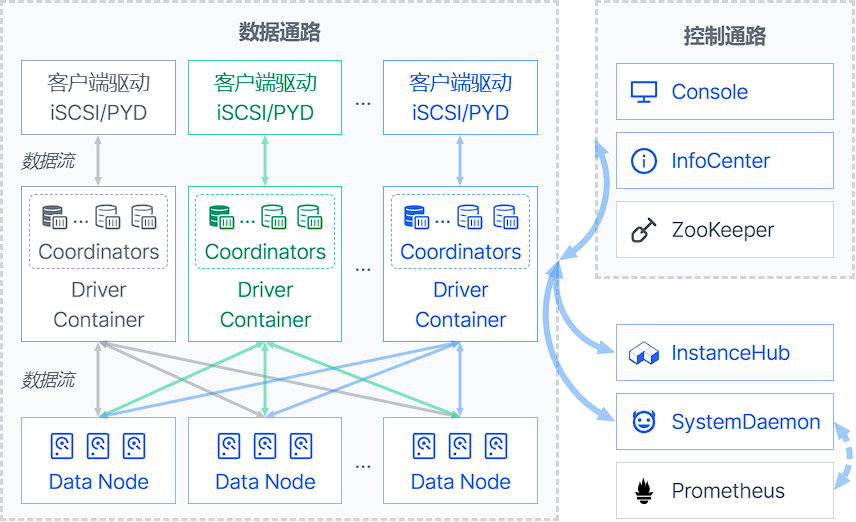
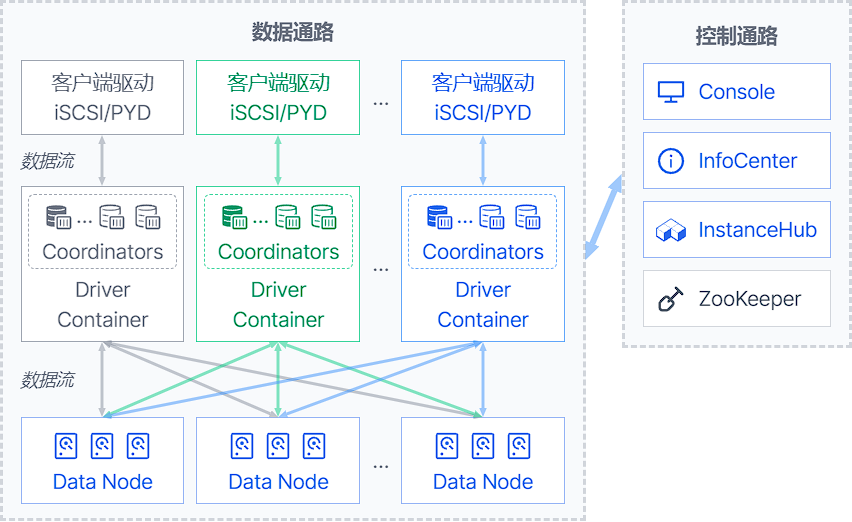
removed SystemDaemon

diff --git a/README.md b/README.md
@@ -79,14 +79,55 @@ The following table compares some key features between various versions of Zetta
 
 # Quick Start
 
-If you're on Linux, the packages required for compilation can be installed by the folowing commands
 
-## I. Setup a development environment
+## I. Downloading the Source
+The repositories of ZettaStor DBS must be organized in a hierarchy structure, use the following commands to download the source code:
+```bash
+ROOT_PATH=$1
+
+git clone -b 1.0.0 $ROOT_PATH:main/pengyun-root
+pushd pengyun-root
+
+git clone -b 1.0.0 $ROOT_PATH:main/pengyun-lib
+pushd pengyun-lib
+git clone -b feature/open_source $ROOT_PATH:main/pengyun-core
+git clone -b feature/open_source $ROOT_PATH:database/pengyun-database_core
+git clone -b feature/open_source $ROOT_PATH:main/pengyun-models
+git clone -b feature/open_source $ROOT_PATH:main/pengyun-dih_model
+git clone -b feature/open_source $ROOT_PATH:main/pengyun-dih_client
+git clone -b feature/open_source $ROOT_PATH:monitor/pengyun-query_log
+git clone -b feature/open_source $ROOT_PATH:main/pengyun-configuration
+git clone -b feature/open_source $ROOT_PATH:monitor/pengyun-monitor_common
+popd
+
+git clone -b 1.0.x-OS $ROOT_PATH:main/pengyun-dbs
+pushd pengyun-dbs
+git clone -b feature/open_source $ROOT_PATH:dbs/dbs-dnmodel
+git clone -b feature/open_source $ROOT_PATH:dbs/dbs-models_related
+git clone -b feature/open_source $ROOT_PATH:main/pengyun-driver_core
+git clone -b feature/open_source $ROOT_PATH:main/pengyun-coordinator
+git clone -b feature/open_source $ROOT_PATH:main/pengyun-infocenter
+git clone -b feature/open_source $ROOT_PATH:main/pengyun-drivercontainer
+git clone -b feature/open_source $ROOT_PATH:main/pengyun-deployment_daemon
+git clone -b feature/open_source $ROOT_PATH:main/pengyun-datanode_core
+git clone -b feature/open_source $ROOT_PATH:datanode/pengyun-datanode_service
+git clone -b feature/open_source $ROOT_PATH:main/pengyun-datanode
+git clone -b feature/open_source $ROOT_PATH:main/pengyun-webservice_adapter
+git clone -b feature/open_source $ROOT_PATH:main/pengyun-utils
+git clone -b feature/open_source $ROOT_PATH:main/pengyun-console
+popd
+
+popd
+```
+
+## II. Setup a development environment
+
+If you're in a UNIX-like environment, the packages required for compilation can be installed by the folowing commands
 
 ### RHEL/CentOS 7
 ```bash
 yum install epel-release
-yum -y install git java-1.8.0-openjdk-devel thrift curl unzip
+yum -y install java-1.8.0-openjdk-devel thrift curl unzip
 
 # Install a newer version of Apache Maven
 curl -LO https://downloads.apache.org/maven/maven-3/3.5.4/binaries/apache-maven-3.5.4-bin.tar.gz
@@ -105,13 +146,13 @@ unzip protoc-3.5.1-linux-x86_64.zip -d /usr/local
 ### RHEL/CentOS 8
 ```bash
 yum install epel-release
-yum install git net-tools maven compat-openssl10 protobuf-compiler
+yum install maven compat-openssl10 protobuf-compiler
 yum install https://dl.fedoraproject.org/pub/epel/7/x86_64/Packages/t/thrift-0.9.1-15.el7.x86_64.rpm
 ```
 
 ### RHEL 9
 ```bash
-yum install git maven unzip
+yum install maven unzip
 yum install http://mirror.centos.org/centos/8-stream/AppStream/x86_64/os/Packages/compat-openssl10-1.0.2o-3.el8.x86_64.rpm
 yum install https://dl.fedoraproject.org/pub/epel/7/x86_64/Packages/t/thrift-0.9.1-15.el7.x86_64.rpm
 curl -LO https://github.com/protocolbuffers/protobuf/releases/download/v3.5.1/protoc-3.5.1-linux-x86_64.zip
@@ -121,14 +162,14 @@ unzip protoc-3.5.1-linux-x86_64.zip -d /usr/local
 ### Debian 10/11, Ubuntu 18/20
 ```bash
 sudo apt-get update
-sudo apt-get install git net-tools curl openjdk-11-jdk maven protobuf-compiler
+sudo apt-get install curl openjdk-11-jdk maven protobuf-compiler
 curl -LO http://ftp.debian.org/debian/pool/main/t/thrift-compiler/thrift-compiler_0.9.1-2.1+b1_amd64.deb
 sudo dpkg -i thrift-compiler_0.9.1-2.1+b1_amd64.deb
 ```
 
 ### SUSE/SLES 15
 ```bash
-zypper install net-tools-deprecated curl unzip maven thrift
+zypper install curl unzip maven thrift
 curl -LO https://github.com/protocolbuffers/protobuf/releases/download/v3.5.1/protoc-3.5.1-linux-x86_64.zip
 unzip protoc-3.5.1-linux-x86_64.zip -d /usr/local
 ```
@@ -159,6 +200,16 @@ export PATH="/usr/local/opt/thrift@0.9/bin:$PATH"
 ```
 
 ### Other Architecture and Platform
+
+As a general rule, the simplest way is to download a pre-built binary. If you would like to build from source code, please refer to the links below for details.
+
+- __Apache Thrift__: To build Thrift from source look at [installation instructions](https://thrift.apache.org/docs/install/). Pay attention to the OS notes, there are are some system specific requirements.
+
+- __Protocol Buffers (Protobuf)__: First check whether you can download a [Protobuf 3.5.1 pre-built binary](https://github.com/protocolbuffers/protobuf/releases/tag/v3.5.1). If you would like to build protoc binary from source, see the [installation instructions](https://github.com/protocolbuffers/protobuf/blob/main/src/README.md).
+
+## III. Compiling the code
+
+### Verification of Requirements
 To compile ZettaStor DBS, you need:
 - Java Development Kit (JDK) 11
 - Apache Maven 3.5 or higher
@@ -179,56 +230,8 @@ $ protoc --version
 libprotoc 3.5.1
 ```
 
-As a general rule, the simplest way is to download a pre-built binary. If you would like to build from source code, please refer to the sections below for details.
+### Building with Maven
 
-#### Apache Thrift
-To build Thrift from source look at [installation instructions](https://thrift.apache.org/docs/install/). Pay attention to the OS notes, there are are some system specific requirements.
-
-#### Protocol Buffers (Protobuf)
-First check whether you can download a [Protobuf 3.5.1 pre-built binary](https://github.com/protocolbuffers/protobuf/releases/tag/v3.5.1). If you would like to build protoc binary from source, see the [installation instructions](https://github.com/protocolbuffers/protobuf/blob/main/src/README.md).
-
-## II. Downloading the Source
-The repositories of ZettaStor DBS must be organized in a hierarchy structure, use the following commands to download the source code:
-```bash
-ROOT_PATH=$1
-
-git clone --depth 1 -b 1.0.0 $ROOT_PATH/pengyun-root
-pushd pengyun-root
-
-git clone --depth 1 -b 1.0.0 $ROOT_PATH/pengyun-root/pengyun-lib
-pushd pengyun-lib
-git clone --depth 1 -b feature/open_source $ROOT_PATH/pengyun-root/pengyun-lib/pengyun-core
-git clone --depth 1 -b feature/open_source $ROOT_PATH/pengyun-root/pengyun-lib/pengyun-database_core
-git clone --depth 1 -b feature/open_source $ROOT_PATH/pengyun-root/pengyun-lib/pengyun-models
-git clone --depth 1 -b feature/open_source $ROOT_PATH/pengyun-root/pengyun-lib/pengyun-dih_model
-git clone --depth 1 -b feature/open_source $ROOT_PATH/pengyun-root/pengyun-lib/pengyun-dih_client
-git clone --depth 1 -b feature/open_source $ROOT_PATH/pengyun-root/pengyun-lib/pengyun-query_log
-git clone --depth 1 -b feature/open_source $ROOT_PATH/pengyun-root/pengyun-lib/pengyun-configuration
-git clone --depth 1 -b feature/open_source $ROOT_PATH/pengyun-root/pengyun-lib/pengyun-monitor_common
-popd
-
-git clone --depth 1 -b 1.0.x-OS $ROOT_PATH/pengyun-root/pengyun-dbs
-pushd pengyun-dbs
-git clone --depth 1 -b feature/open_source $ROOT_PATH/pengyun-root/pengyun-dbs/dbs-dnmodel
-git clone --depth 1 -b feature/open_source $ROOT_PATH/pengyun-root/pengyun-dbs/dbs-models_related
-git clone --depth 1 -b feature/open_source $ROOT_PATH/pengyun-root/pengyun-dbs/pengyun-driver_core
-git clone --depth 1 -b feature/open_source $ROOT_PATH/pengyun-root/pengyun-dbs/pengyun-coordinator
-git clone --depth 1 -b feature/open_source $ROOT_PATH/pengyun-root/pengyun-dbs/pengyun-infocenter
-git clone --depth 1 -b feature/open_source $ROOT_PATH/pengyun-root/pengyun-dbs/pengyun-drivercontainer
-git clone --depth 1 -b feature/open_source $ROOT_PATH/pengyun-root/pengyun-dbs/pengyun-deployment_daemon
-git clone --depth 1 -b feature/open_source $ROOT_PATH/pengyun-root/pengyun-dbs/pengyun-system_daemon
-git clone --depth 1 -b feature/open_source $ROOT_PATH/pengyun-root/pengyun-dbs/pengyun-datanode_core
-git clone --depth 1 -b feature/open_source $ROOT_PATH/pengyun-root/pengyun-dbs/pengyun-datanode_service
-git clone --depth 1 -b feature/open_source $ROOT_PATH/pengyun-root/pengyun-dbs/pengyun-datanode
-git clone --depth 1 -b feature/open_source $ROOT_PATH/pengyun-root/pengyun-dbs/pengyun-webservice_adapter
-git clone --depth 1 -b feature/open_source $ROOT_PATH/pengyun-root/pengyun-dbs/pengyun-utils
-git clone --depth 1 -b feature/open_source $ROOT_PATH/pengyun-root/pengyun-dbs/pengyun-console
-popd
-
-popd
-```
-
-## III. Compiling the code
 To build the package, use the following commands in the directory where `pengyun-root/pom.xml` is located
 ```bash
 # Update version number from system environment

diff --git a/docs/configuration-zh.md b/docs/configuration-zh.md
@@ -60,7 +60,6 @@
 |-------------------|-------------------------------------------------------------------------------------|
 | DIH               | 集群所有节点信息                                                                    |
 | InfoCenter        | 通常选取2-3个节点进行配置，建议选取的节点不要在同一个Group里面                      |
-| SystemDaemon      | 集群所有节点信息                                                                    |
 | DriverContainer   | 根据需要配置，通常是集群所有节点信息                                                |
 | DataNode          | 提供存储资源的节点，通常是集群所有节点信息                                          |
 | Console           | 通常是选择一个或者多个节点进行配置。多节点的话，建议选取的节点不要在同一个Group里面 |
@@ -307,15 +306,6 @@ unit数量有关系。
 | **属性名称**          | **默认值** | **参数说明**                                                                                                                                                          |
 | initial.mem.pool.size | 1024m        | 运行时初始分配内存大小                                                                                                                                                |
 | max.mem.pool.size     | 2048m        | 运行时占用最大内存大小，该值与segment unit数量有关，segment unit数量在2万以内，该值建议配置为2G，segment unit数量超出2万，每2万增加1G，总的segment unit数量不超过10万 |
-
-### SystemDaemon模块配置
-
-#### systemdaemon.properties
-
-|                 |              |                                         |
-|-----------------|--------------|-----------------------------------------|
-| **属性名称**    | **默认值** | **参数说明**                            |
-| record.save.day | 15           | eventdata数据保留时间，根据实际环境配置 |
 
 ### DeploymentDaemon模块配置
 

diff --git a/docs/configuration.md b/docs/configuration.md
@@ -58,7 +58,6 @@ For the service name XXX in the above table, please refer to the following infor
 |-------------------|-------------------------------------------------------------------------------------|
 | DIH               | All nodes in the cluster                                          |
 | InfoCenter        | Usually 2-3 nodes in the cluster, it is recommended that the selected nodes should be in different groups |
-| SystemDaemon      | All nodes in the cluster |
 | DriverContainer   | Configure as required, usually all nodes in the cluster |
 | DataNode          | The node that provides storage resources, usually all nodes in the cluster |
 | Console           | Usually one or more nodes. If multiple nodes are configured, it is recommended that the selected nodes should be in different groups |
@@ -306,15 +305,6 @@ This is a separate description for the JVM configuration of InfoCenter, which is
 | **Attribute Name**    | **Default Value** | **Description**                      |
 | initial.mem.pool.size | 1024m        | Initial memory allocation size at runtime |
 | max.mem.pool.size     | 2048m        | The maximum memory allocatable during runtime. This value is related to the number of segment units. If the number of segment units is less than 20,000, it is recommended to configure this value to 2G. If the number of segment units exceeds 20,000, increase 1G on every 10,000 units, and the total number of segment units should not exceed 100,000 |
-
-### SystemDaemon Configuration
-
-#### systemdaemon.properties
-
-|                 |              |                                          |
-|-----------------|--------------|------------------------------------------|
-| **Attribute Name**    | **Default Value** | **Description**               |
-| record.save.day       | 15                | Eventdata data retention time |
 
 ## Updating Configuration
 

diff --git a/docs/devguide.md b/docs/devguide.md
@@ -27,10 +27,6 @@ The basic structure of Control Operation modules and data flow is shown in below
 
 InfoCenter is the information center of the system. It is responsible for obtaining various information from DataNode for use by MonitorServer and Console, including DataNode and its back-end storage resource, block device mounting and usage, and account information.
 
-- __SystemDaemon__
-
-SystemDaemon is a monitoring probe to detect hardware information of the nodes, and to store log information generated by services.
-
 - __Console__
 
 Console is the portal of the system. Users can configure the system and view various system information through a web browser, including: the running status of each component, various warnings or alarms, I/O performance data and reports.
